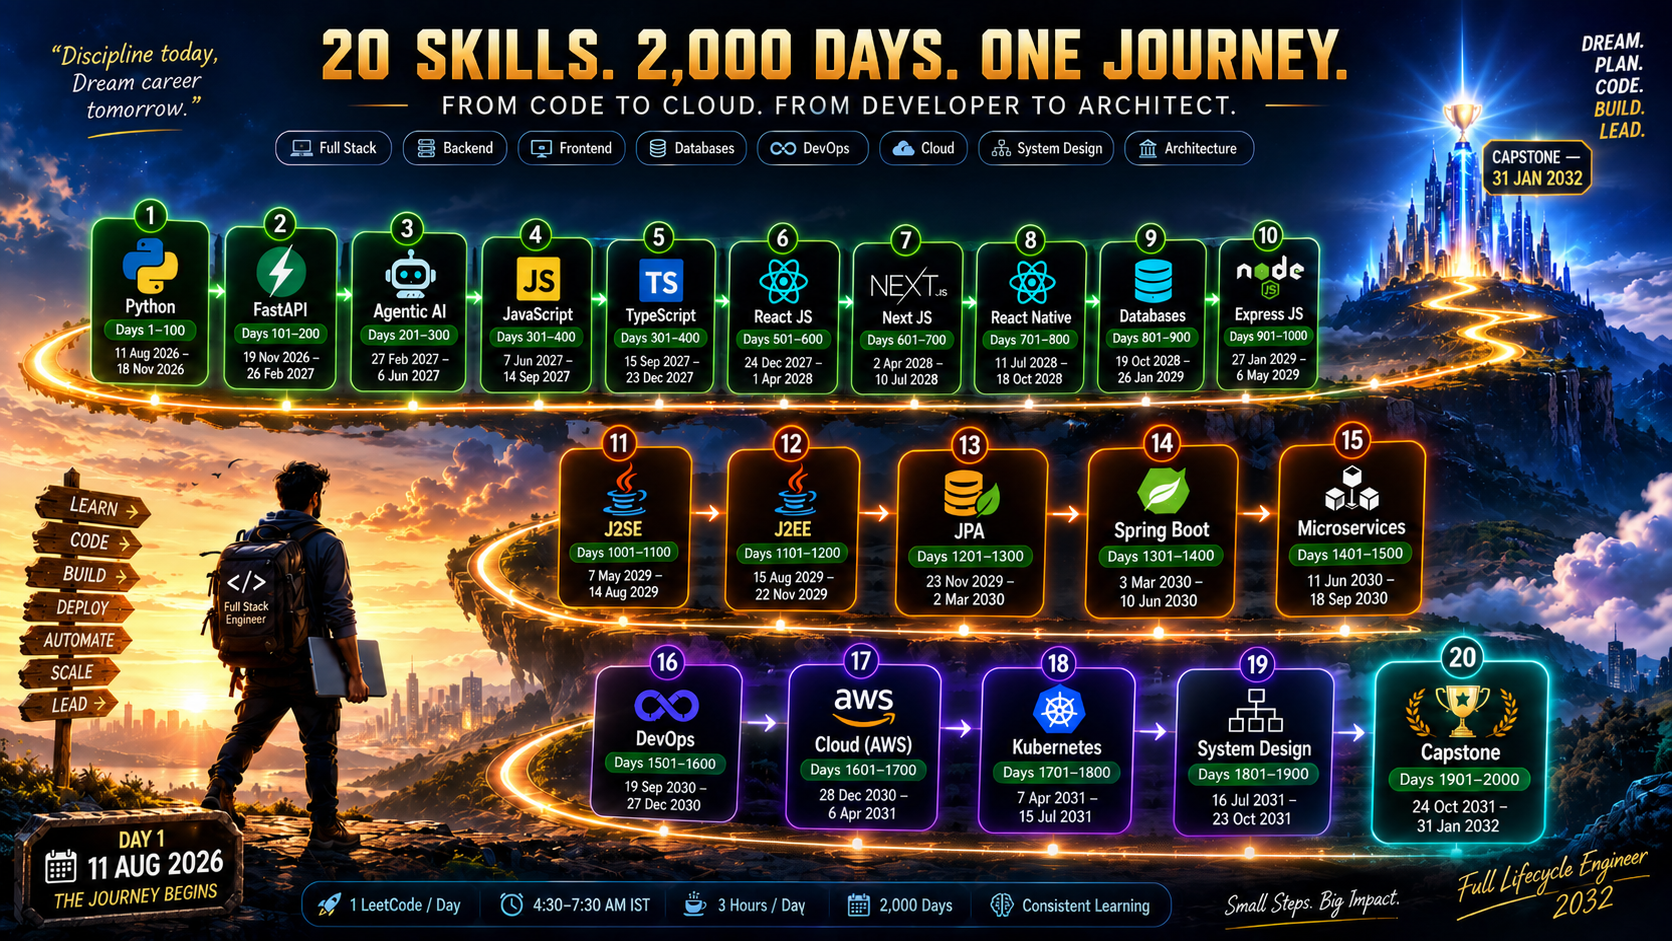
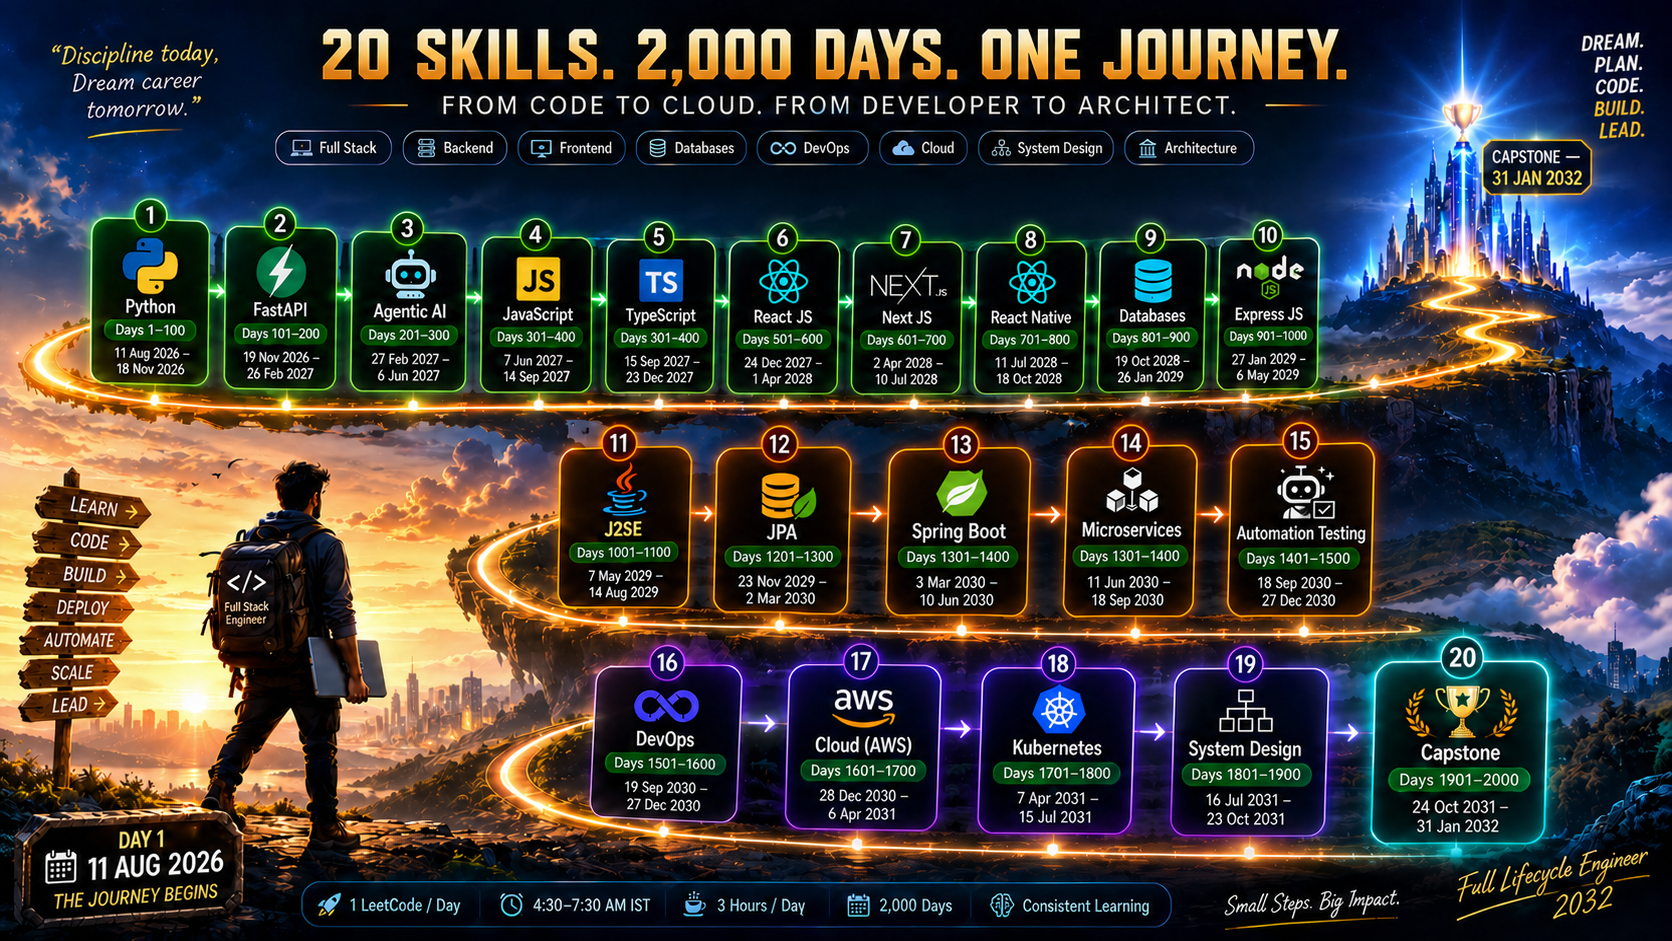
Feature: update roadmap poster to new 20-skill plan image (v4 cache-bust)

diff --git a/src/pages/RoadmapHome.jsx b/src/pages/RoadmapHome.jsx
@@ -297,8 +297,8 @@ export default function RoadmapHome() {
         style={{ margin: '8px auto 4px', textAlign: 'center', maxWidth: '820px' }}
       >
         <img
-          src="/roadmap-notes/2000days.png?v=3"
-          alt="5 Years. 2,000 Days. One Journey. — Full Lifecycle Engineer roadmap: Python (2026) → FastAPI → JavaScript → TypeScript → React → Java → Spring Boot → Microservices → Kubernetes (2030) → System Design (2031) → Capstone 2032. Day 0: 10 Aug 2026 · Day 2,000: 31 Jan 2032."
+          src="/roadmap-notes/2000days.png?v=4"
+          alt="20 Skills. 2,000 Days. One Journey. — Full Lifecycle Engineer roadmap: Python → FastAPI → Agentic AI → JavaScript → TypeScript → React JS → Next JS → React Native → Databases → Express JS → J2SE → JPA → Spring Boot → Microservices → Automation Testing → DevOps → Cloud (AWS) → Kubernetes → System Design → Capstone. Day 1: 11 Aug 2026 · Day 2,000: 31 Jan 2032."
           loading="eager"
           style={{
             width: '100%',
